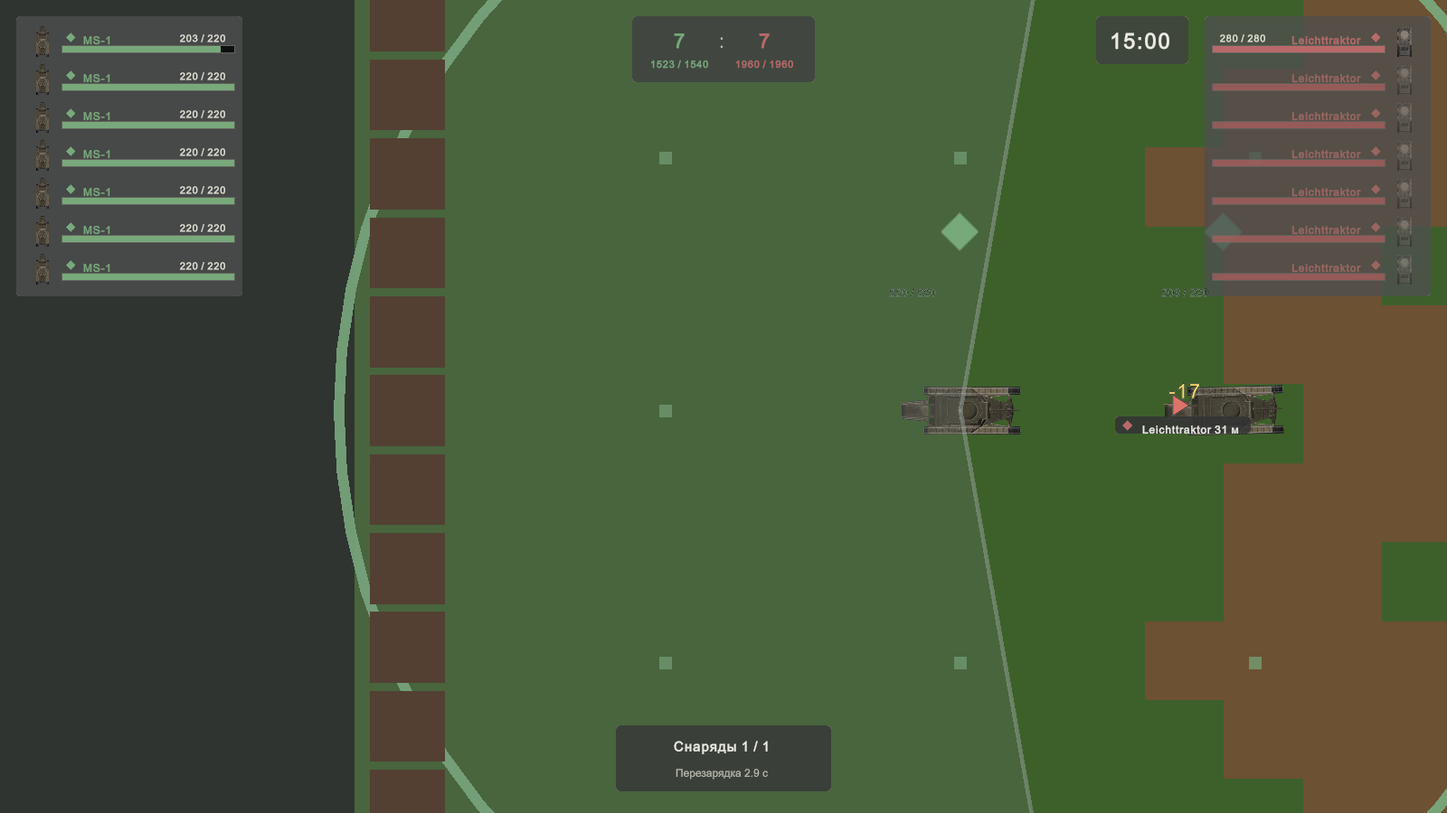
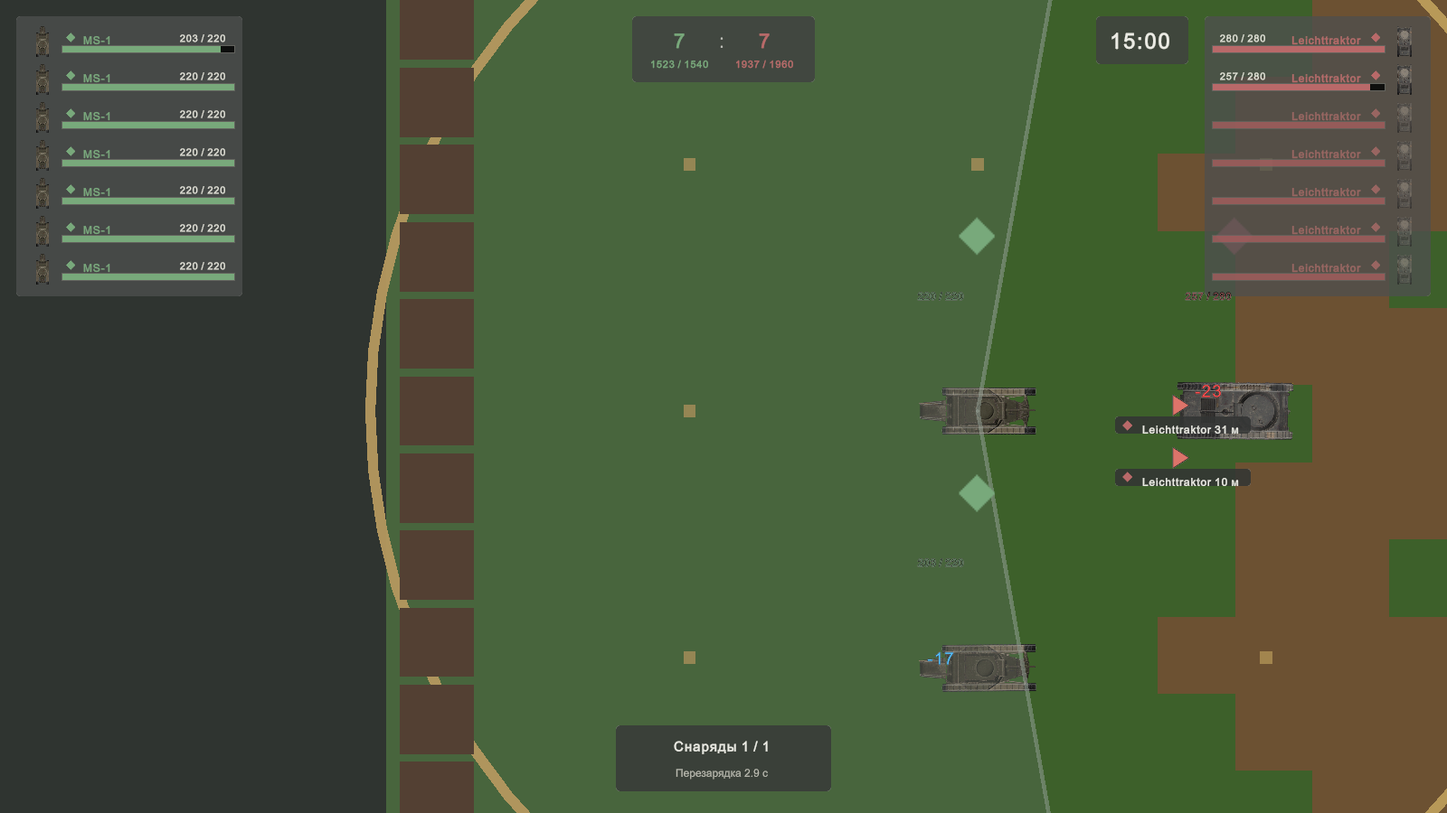
feat(hud): animate team-colored damage numbers

diff --git a/Assets/Game/Tests/PlayMode/CombatHudPreviewTests.cs b/Assets/Game/Tests/PlayMode/CombatHudPreviewTests.cs
@@ -64,8 +64,15 @@ namespace LocalTanks.Tests
             }
 
             TeamMember player = director.PlayerMember;
-            TeamMember enemy = roster.Enemies.First(entry => entry.IsAlive).Member;
-            foreach (BattleRosterEntry other in roster.Enemies.Where(entry => entry.Member != enemy))
+            TeamMember[] proofEnemies = roster.Enemies.Where(entry => entry.IsAlive)
+                .Take(2)
+                .Select(entry => entry.Member)
+                .ToArray();
+            Assert.That(proofEnemies, Has.Length.EqualTo(2));
+            TeamMember offscreenEnemy = proofEnemies[0];
+            TeamMember hitEnemy = proofEnemies[1];
+            foreach (BattleRosterEntry other in roster.Enemies.Where(entry =>
+                         entry.Member != offscreenEnemy && entry.Member != hitEnemy))
             {
                 other.Member.transform.position = player.transform.position + new Vector3(1000f, 1000f, 0f);
             }
@@ -77,14 +84,19 @@ namespace LocalTanks.Tests
                 other.Member.transform.position = player.transform.position + new Vector3(-1000f, -1000f, 0f);
             }
 
-            ally.transform.position = player.transform.position + new Vector3(2.5f, 0f, 0f);
+            Vector2 visionForward = player.VisionForward.normalized;
+            Vector2 visionRight = new Vector2(visionForward.y, -visionForward.x);
+            ally.transform.position = player.transform.position + (Vector3)(visionRight * 2.5f);
+            hitEnemy.transform.position = player.transform.position + (Vector3)(visionForward * 2.5f);
             camera.orthographicSize = 3.5f;
             camera.transform.position = new Vector3(player.transform.position.x, player.transform.position.y, -10f);
-            enemy.transform.position = player.transform.position + (Vector3)(player.VisionForward * 8f);
+            offscreenEnemy.transform.position = player.transform.position + (Vector3)(visionForward * 8f);
             Physics2D.SyncTransforms();
             director.VisionSystem.ForceEvaluateAll();
-            Assert.That(roster.Find(enemy).IsCurrentlyVisible, Is.True,
+            Assert.That(roster.Find(offscreenEnemy).IsCurrentlyVisible, Is.True,
                 "The proof target must be spotted so the offscreen indicator is honest.");
+            Assert.That(roster.Find(hitEnemy).IsCurrentlyVisible, Is.True,
+                "The damaged enemy must be visible so its red popup does not leak hidden information.");
 
             TankArmor armor = ally.GetComponent<TankArmor>();
             Vector2 impactDirection = Vector2.up;
@@ -100,14 +112,31 @@ namespace LocalTanks.Tests
                 0.65f,
                 0);
 
+            TankArmor enemyArmor = hitEnemy.GetComponent<TankArmor>();
+            enemyArmor.ResolveImpact(
+                impactDirection,
+                hitEnemy.transform.position,
+                -impactDirection,
+                100000f,
+                10f,
+                23,
+                70f,
+                0.7f,
+                0.65f,
+                0);
+
             yield return null;
             yield return null;
             Assert.That(document.rootVisualElement.Query<Label>(className: "world-health-number").ToList(),
                 Is.Not.Empty);
             Assert.That(document.rootVisualElement.Query<Label>(className: "damage-popup").ToList(),
+                Has.Count.EqualTo(2));
+            Assert.That(document.rootVisualElement.Query<Label>(className: DamagePopupLayer.AllyDamageClass).ToList(),
+                Has.Count.EqualTo(1));
+            Assert.That(document.rootVisualElement.Query<Label>(className: DamagePopupLayer.EnemyDamageClass).ToList(),
                 Has.Count.EqualTo(1));
             Assert.That(document.rootVisualElement.Query<VisualElement>(className: "offscreen-indicator").ToList(),
-                Has.Count.EqualTo(1));
+                Has.Count.GreaterThanOrEqualTo(1));
             camera.Render();
             yield return null;
 

diff --git a/Assets/Game/Runtime/DamagePopupLayer.cs b/Assets/Game/Runtime/DamagePopupLayer.cs
@@ -13,6 +13,9 @@ namespace LocalTanks
     public sealed class DamagePopupLayer : MonoBehaviour
     {
         public const float PopupLifetimeSeconds = 1.25f;
+        public const float PopupGrowthFraction = 0.35f;
+        public const string AllyDamageClass = "damage-popup--ally";
+        public const string EnemyDamageClass = "damage-popup--enemy";
 
         private readonly List<DamagePopup> popups = new List<DamagePopup>();
         private readonly HashSet<TankArmor> subscribedArmor = new HashSet<TankArmor>();
@@ -98,7 +101,9 @@ namespace LocalTanks
                 popup.Label.style.display = DisplayStyle.Flex;
                 popup.Label.style.left = point.x - 45f;
                 popup.Label.style.top = point.y - 38f - progress * 28f;
-                popup.Label.style.opacity = 1f - progress;
+                float scale = PopupScale(progress);
+                popup.Label.style.scale = new Scale(new Vector3(scale, scale, 1f));
+                popup.Label.style.opacity = PopupOpacity(progress);
             }
         }
 
@@ -305,6 +310,7 @@ namespace LocalTanks
             if (point == Vector2.zero && member != null) point = member.transform.position;
             Label label = new Label(FormatDamage(observation.Damage)) { pickingMode = PickingMode.Ignore };
             label.AddToClassList("damage-popup");
+            label.AddToClassList(DamageClass(entry.IsAlly));
             overlay.Add(label);
             popups.Add(new DamagePopup(point, Time.unscaledTime, label));
         }
@@ -364,6 +370,20 @@ namespace LocalTanks
         }
 
         public static string FormatDamage(int damage) => $"-{Mathf.Max(0, damage)}";
+
+        public static string DamageClass(bool isAlly) => isAlly ? AllyDamageClass : EnemyDamageClass;
+
+        public static float PopupScale(float normalizedProgress)
+        {
+            float growth = Mathf.Clamp01(normalizedProgress / PopupGrowthFraction);
+            return Mathf.Lerp(0.84f, 1.1f, Mathf.SmoothStep(0f, 1f, growth));
+        }
+
+        public static float PopupOpacity(float normalizedProgress)
+        {
+            float fade = Mathf.InverseLerp(PopupGrowthFraction, 1f, Mathf.Clamp01(normalizedProgress));
+            return 1f - Mathf.SmoothStep(0f, 1f, fade);
+        }
 
         public static string FormatIndicator(string tankName, float distanceMetres)
         {

diff --git a/Assets/Game/Tests/EditMode/TankPrototypeTests.cs b/Assets/Game/Tests/EditMode/TankPrototypeTests.cs
@@ -30,6 +30,21 @@ namespace LocalTanks.Tests
             Assert.That(DamagePopupLayer.FormatIndicator("MS-1", 123.6f), Is.EqualTo("MS-1  124 м"));
             Assert.That(DamagePopupLayer.ArrowGlyph(0f), Is.EqualTo("▶"));
             Assert.That(DamagePopupLayer.ArrowGlyph(90f), Is.EqualTo("▲"));
+            Assert.That(DamagePopupLayer.DamageClass(true), Is.EqualTo(DamagePopupLayer.AllyDamageClass));
+            Assert.That(DamagePopupLayer.DamageClass(false), Is.EqualTo(DamagePopupLayer.EnemyDamageClass));
+        }
+
+        [Test]
+        public void DamagePopup_GrowsBeforeItFades()
+        {
+            Assert.That(DamagePopupLayer.PopupScale(0f), Is.EqualTo(0.84f).Within(0.001f));
+            Assert.That(DamagePopupLayer.PopupScale(DamagePopupLayer.PopupGrowthFraction),
+                Is.EqualTo(1.1f).Within(0.001f));
+            Assert.That(DamagePopupLayer.PopupOpacity(0f), Is.EqualTo(1f).Within(0.001f));
+            Assert.That(DamagePopupLayer.PopupOpacity(DamagePopupLayer.PopupGrowthFraction),
+                Is.EqualTo(1f).Within(0.001f));
+            Assert.That(DamagePopupLayer.PopupOpacity(0.75f), Is.LessThan(1f).And.GreaterThan(0f));
+            Assert.That(DamagePopupLayer.PopupOpacity(1f), Is.EqualTo(0f).Within(0.001f));
         }
 
         [Test]

diff --git a/Docs/SPRINT_010.md b/Docs/SPRINT_010.md
@@ -146,7 +146,7 @@
 - Один источник: сумма здоровья команды, число над машиной и число в списке считаются из одного `BattleRoster`, иначе три числа разойдутся. Сокрытие HP необнаруженного противника уже реализовано в `BattleRoster` — новые числа обязаны идти через тот же путь, а не проверять видимость своим условием.
 - Проверки: Edit Mode — сумма команды равна сумме живых машин и уменьшается ровно на применённый урон; формат и время жизни записи об уроне; позиция и угол стрелки на кромке экрана для восьми направлений; дистанция в метрах совпадает с фактической. Play Mode — после попадания число над машиной и в списке меняется в одном кадре; у необнаруженного противника число не появляется; серия выстрелов даёт ровно столько записей, сколько зарегистрировано попаданий, и они не накапливаются; цель за краем даёт стрелку, выход в кадр и потеря видимости её убирают.
 - Доказательство: новая графическая операция реестра `CaptureBattleHudProof` (`requiresGraphics: true`, файл `Docs/Media/BattleHud.png`) плюс XML прогонов. У графической операции обязан быть файл-доказательство — это проверяет `UnityLauncherRegistryTests`.
-- **Статус 2026-10-14: закрыт.** `BattleRoster` стал единым источником числовых HP в строках, над видимыми машинами и в суммах команд; скрытый противник сохраняет последнее известное значение, но не раскрывает число. `ArmorImpactObservation.Damage` теперь содержит фактически применённый урон, включая добивание, а один `DamagePopupLayer` в UI Toolkit обслуживает числа урона, мировые HP и не перекрывающиеся указатели обнаруженных целей за экраном. Edit Mode проверяет восемь направлений и формат, Play Mode — сокрытие скрытого урона; `CaptureBattleHudProof` — 1/1 и записал `Docs/Media/BattleHud.png`.
+- **Статус 2026-10-14: закрыт.** `BattleRoster` стал единым источником числовых HP в строках, над видимыми машинами и в суммах команд; скрытый противник сохраняет последнее известное значение, но не раскрывает число. `ArmorImpactObservation.Damage` теперь содержит фактически применённый урон, включая добивание, а один `DamagePopupLayer` в UI Toolkit обслуживает числа урона, мировые HP и не перекрывающиеся указатели обнаруженных целей за экраном. Всплывающий урон красный для противника и голубой для союзника, сначала увеличивается с 84% до 110%, затем плавно исчезает. Edit Mode проверяет восемь направлений, формат и фазу анимации, Play Mode — сокрытие скрытого урона; `CaptureBattleHudProof` — 1/1 и записал `Docs/Media/BattleHud.png`.
 - **Что нашлось при исполнении.** `ScreenCapture` не пишет файл в пакетном режиме, а `WaitForEndOfFrame` там не вызывается. Доказательство поэтому рендерит камеру и настоящую UI Toolkit-панель в отдельные `RenderTexture` и альфа-композитит их; это остаётся графической операцией и не подменяет HUD отдельным макетом.
 
 ### P4. Оружие: остаток барабана, секунды и перезарядка по `R` (пункт 7)

diff --git a/Docs/TEST_PLAN.md b/Docs/TEST_PLAN.md
@@ -160,9 +160,9 @@
 
 ## Проверка понятности боя и оружия
 
-- Edit Mode `TankPrototypeTests` проверяет формат HP и урона, метры в подписи цели и положение указателя на границе безопасной области для восьми направлений. `GameCommandRegistryTests` требует уникальные привязки, `R` у боевой перезарядки и `Ctrl+R` у перезапуска AI Duel Lab.
+- Edit Mode `TankPrototypeTests` проверяет формат HP и урона, красный/голубой классы цели, рост всплывающего числа до начала затухания, метры в подписи цели и положение указателя на границе безопасной области для восьми направлений. `GameCommandRegistryTests` требует уникальные привязки, `R` у боевой перезарядки и `Ctrl+R` у перезапуска AI Duel Lab.
 - Play Mode `VisionPlayModeTests.TeamContact_IsSharedAndHiddenDamageDoesNotLeakToRoster` доказывает, что видимый противник показывает HP, а повреждение скрытого противника не меняет ни его число, ни сумму команды. `CombatHudPlayModeTests` проверяет фактически применённый урон при добивании и полный цикл ручной перезарядки: неполный магазин обнуляется, повторное нажатие ничего не делает, заполнение происходит ровно после полного таймера.
-- Графическая операция `CaptureBattleHudProof` запускает только `CombatHudPreviewTests`, требует настоящее графическое устройство и пишет `Docs/Media/BattleHud.png`. В кадре обязаны быть числа над машинами и в списках, сумма команд, одно значение применённого урона, один указатель обнаруженной цели за экраном, остаток магазина и секунды перезарядки. Полный headless Play Mode пропускает этот тест по контракту.
+- Графическая операция `CaptureBattleHudProof` запускает только `CombatHudPreviewTests`, требует настоящее графическое устройство и пишет `Docs/Media/BattleHud.png`. В кадре обязаны быть числа над машинами и в списках, сумма команд, красное значение урона по противнику, голубое значение урона по союзнику, хотя бы один указатель обнаруженной цели за экраном, остаток магазина и секунды перезарядки. Полный headless Play Mode пропускает этот тест по контракту.
 - Ручная проверка P3/P4: на «Переправе» и «Рудниках» повредить видимую машину, убедиться в синхронном изменении трёх представлений HP, вывести обнаруженного противника за край камеры, начать принудительную перезарядку неполного магазина и проверить, что повторное `R` её не ускоряет.
 
 ## Проверка структуры сцен

diff --git a/Docs/CHANGELOG.md b/Docs/CHANGELOG.md
@@ -4,6 +4,7 @@
 
 ## 2026-10-14 — Sprint 010 P3/P4: понятный бой и состояние оружия
 
+- Всплывающий урон получил командную семантику и двухфазную анимацию: красный цвет при попадании по противнику, голубой при попадании по союзнику, рост с 84% до 110% размера перед плавным исчезновением. Графический эталон теперь одновременно показывает оба варианта. Проверки уточнения: `TankPrototypeTests` **49/49**, `CombatHudPlayModeTests` **2/2**, `VisionPlayModeTests` **12/12**, `CaptureBattleHudProof` **1/1**.
 - Боевой HUD показывает `текущее / максимальное` HP над каждой видимой машиной и в строках команд, а под счётом — суммарную последнюю известную прочность живых машин. У скрытого противника число исчезает, и повреждение вне видимости не меняет последнее известное значение.
 - Один `DamagePopupLayer` внутри UI Toolkit обслуживает мировые HP, фактически применённый урон и указатели обнаруженных противников за экраном. Указатель содержит класс, название и дистанцию в метрах; соседние указатели раздвигаются, чтобы не закрывать друг друга. `TankArmor` передаёт в событие реальный `AppliedDamage`, поэтому добивание не завышает всплывающее число.
 - HUD оружия показывает остаток магазина и полную перезарядку, а во время неё — оставшееся и полное время. `R` запускает полную принудительную перезарядку неполного магазина без ускорения повторным нажатием; перезапуск AI Duel Lab перенесён на `Ctrl+R` (ADR-078).

diff --git a/Docs/STATUS.md b/Docs/STATUS.md
@@ -31,7 +31,7 @@
 - Локальная библиотека WoT-аудио содержит 128 проверенных клипов: 13 машинных и 115 универсальных, включая музыку «Рудников» и 100 реплик экипажа для пяти языков в двух голосах.
 - Вся проектная автоматизация централизована в `Automation`: шесть репозиторных скиллов лежат в `Automation/skills`, пять контентных конвейеров — в `Automation/pipelines`; личные и внешние копии не являются источником истины.
 - Unity запускается только через `Tools/Unity/Invoke-UnityBackground.ps1`: headless по умолчанию, графика автоматически только для доказательств, которые нельзя получить без GPU.
-- Боевой HUD показывает HP над видимыми машинами и в списках, последнюю известную суммарную прочность команд, фактически применённый урон, обнаруженные цели за экраном с дистанцией, остаток магазина и время полной перезарядки. `R` перезаряжает оружие, перезапуск AI Duel Lab перенесён на `Ctrl+R`.
+- Боевой HUD показывает HP над видимыми машинами и в списках, последнюю известную суммарную прочность команд, фактически применённый урон, обнаруженные цели за экраном с дистанцией, остаток магазина и время полной перезарядки. Всплывающий урон красный для противника и голубой для союзника, сначала слегка увеличивается, затем плавно исчезает. `R` перезаряжает оружие, перезапуск AI Duel Lab перенесён на `Ctrl+R`.
 
 ## Последнее подтверждённое состояние проверок
 
